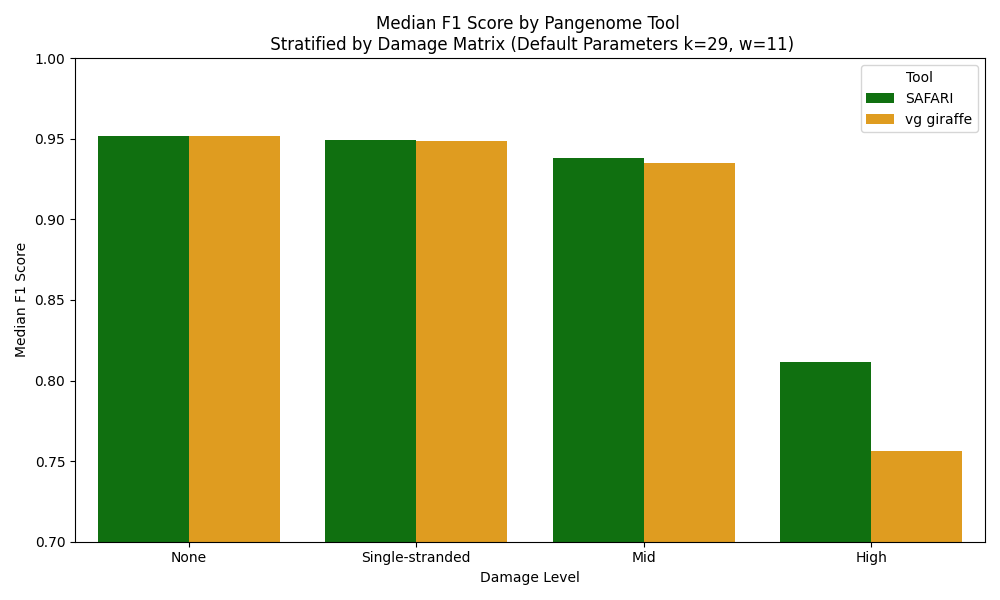
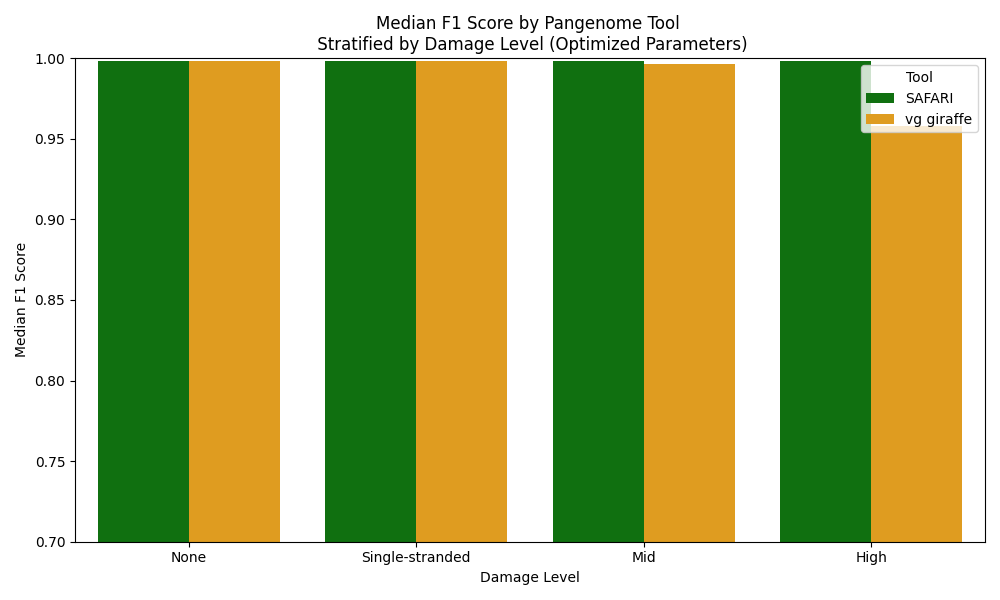
Update

Changed region(s): [[0.093, 0.06, 0.961, 0.75]]

diff --git a/linear_experiment/human_mito/stat_results/plot_F1_optimal_pangenome.py b/linear_experiment/human_mito/stat_results/plot_F1_optimal_pangenome.py
@@ -31,7 +31,7 @@ def main():
     median_f1_scores.sort_values('damage_level', inplace=True)
 
     # Correcting the case sensitivity issue for the palette
-    corrected_palette = {'vg giraffe': 'orange', 'safari': 'green'}
+    corrected_palette = {'vg giraffe': 'orange', 'SAFARI': 'green'}
 
     # Create a barplot
     plt.figure(figsize=(10, 6))
